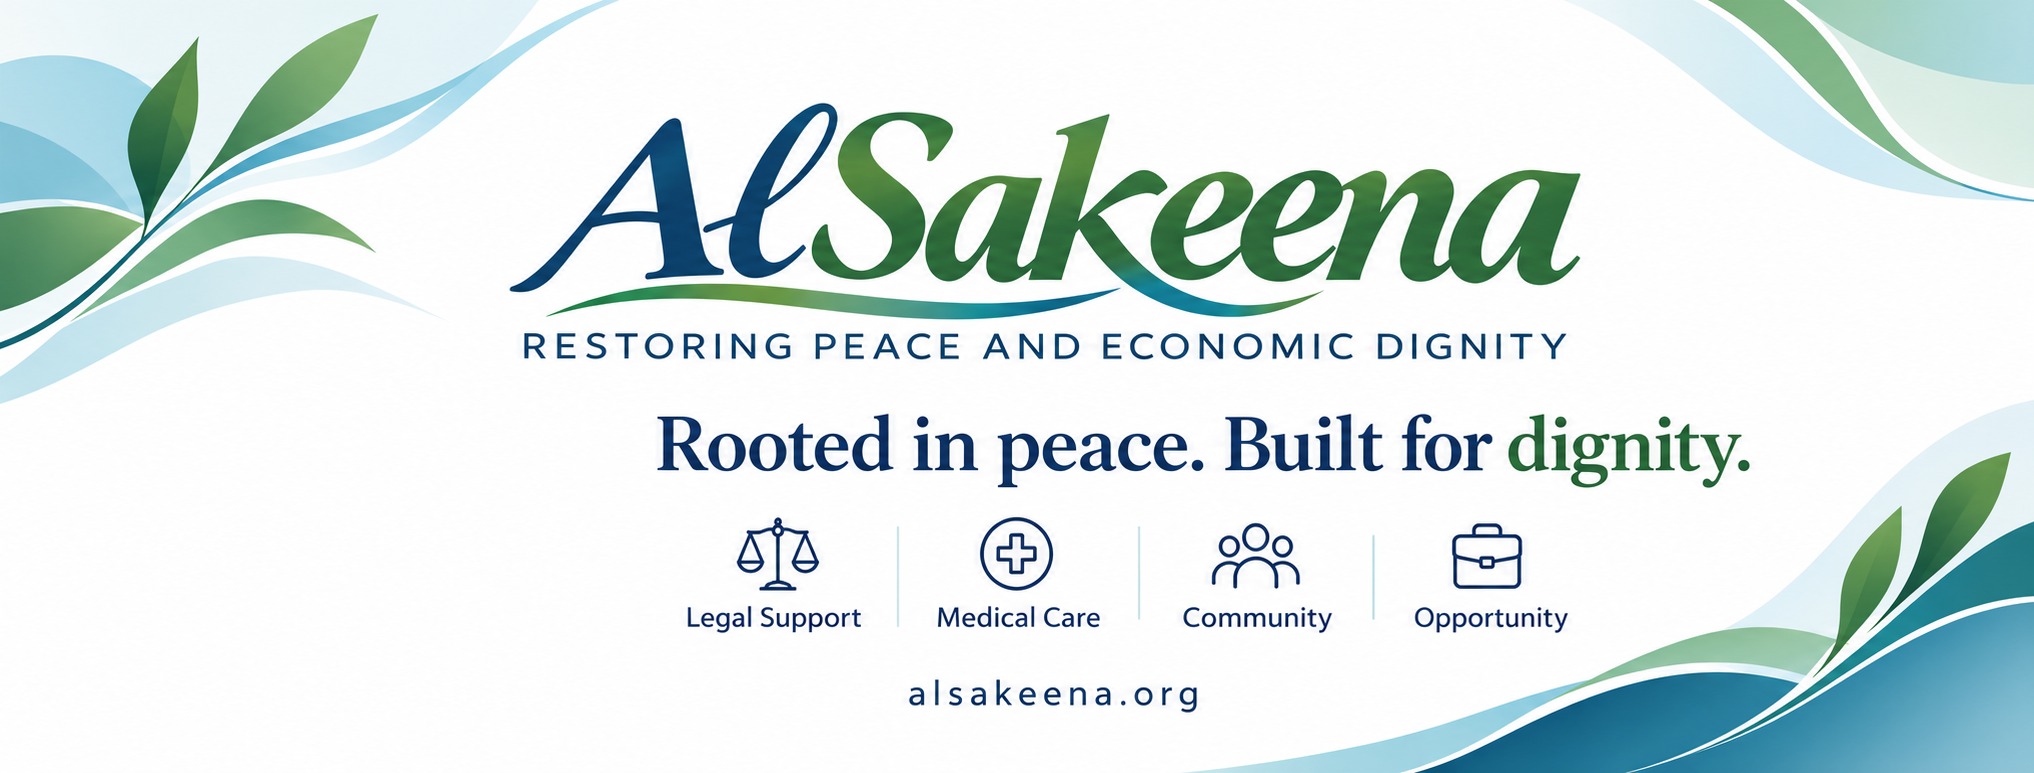
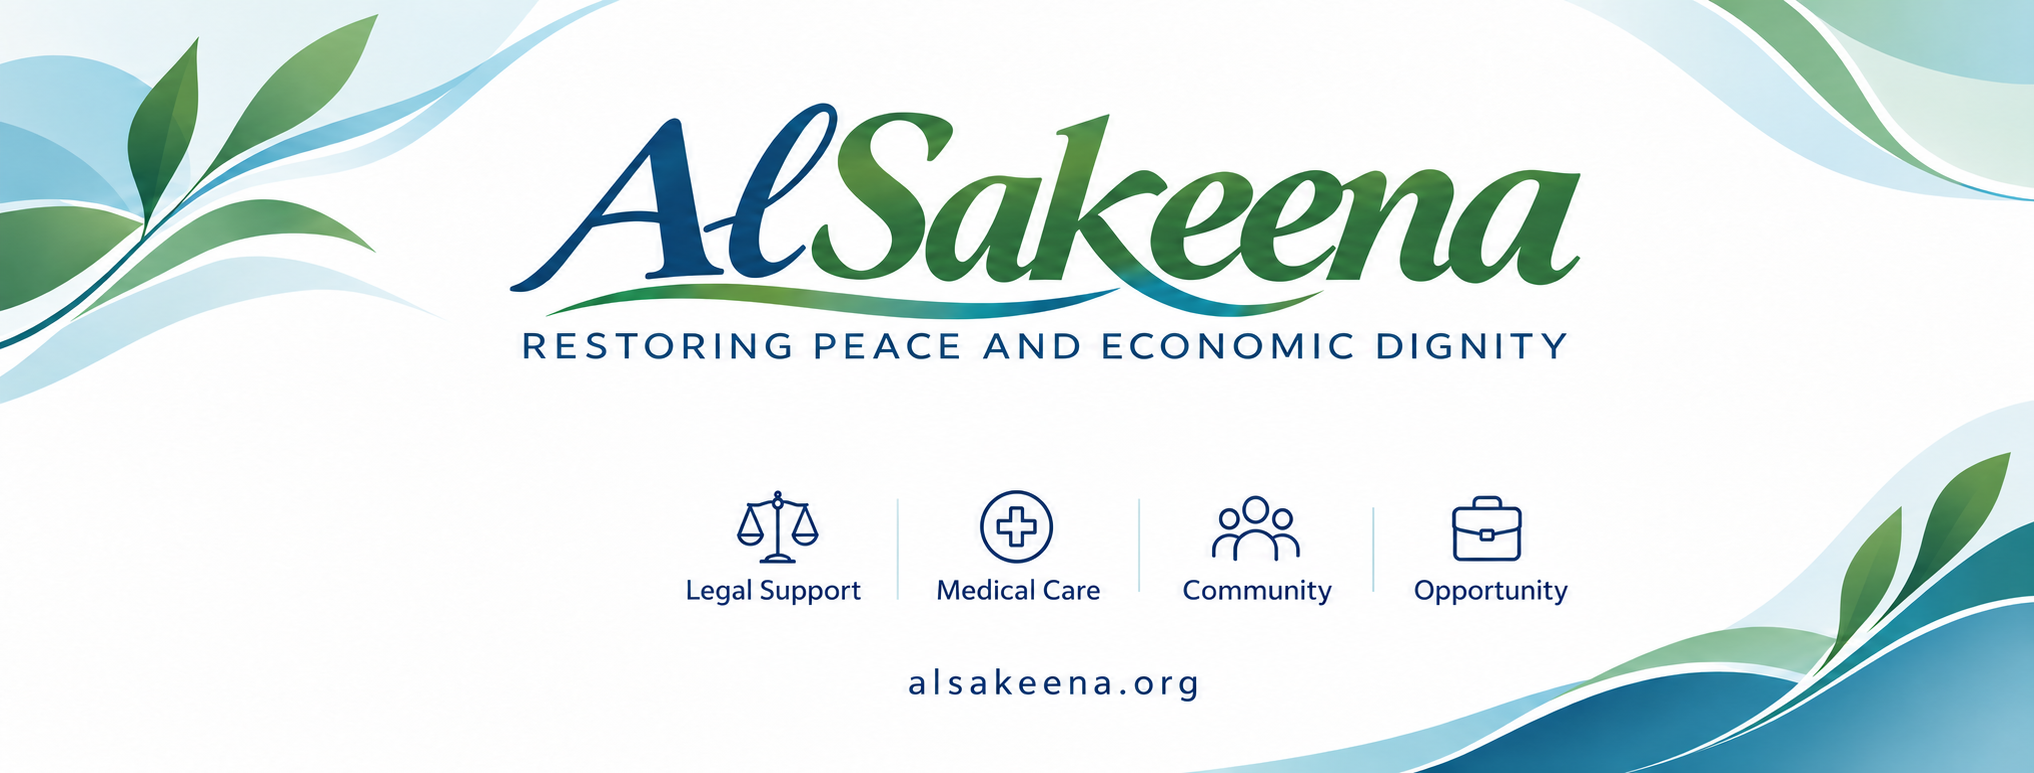
Remove secondary headline from approved Facebook cover

diff --git a/brand/README.md b/brand/README.md
@@ -25,7 +25,7 @@ This writes both original PNGs to `brand/exports/`. They are convenience exports
 
 ## Facebook cover
 
-[Approved Facebook cover PNG](approved/alsakeena-facebook-cover.png) — user-approved banner featuring the full logo, “Rooted in peace. Built for dignity.”, the four areas of support, and alsakeena.org. Download the PNG directly for Facebook. Preserve this approved original and preview desktop/mobile cropping when uploading.
+[Approved Facebook cover PNG](approved/alsakeena-facebook-cover.png) — user-approved banner featuring the full logo and its original tagline, the four areas of support, and alsakeena.org (without the separate “Rooted in peace. Built for dignity.” headline). Download the PNG directly for Facebook. Preserve this approved original and preview desktop/mobile cropping when uploading.
 
 ## Brand rules
 
